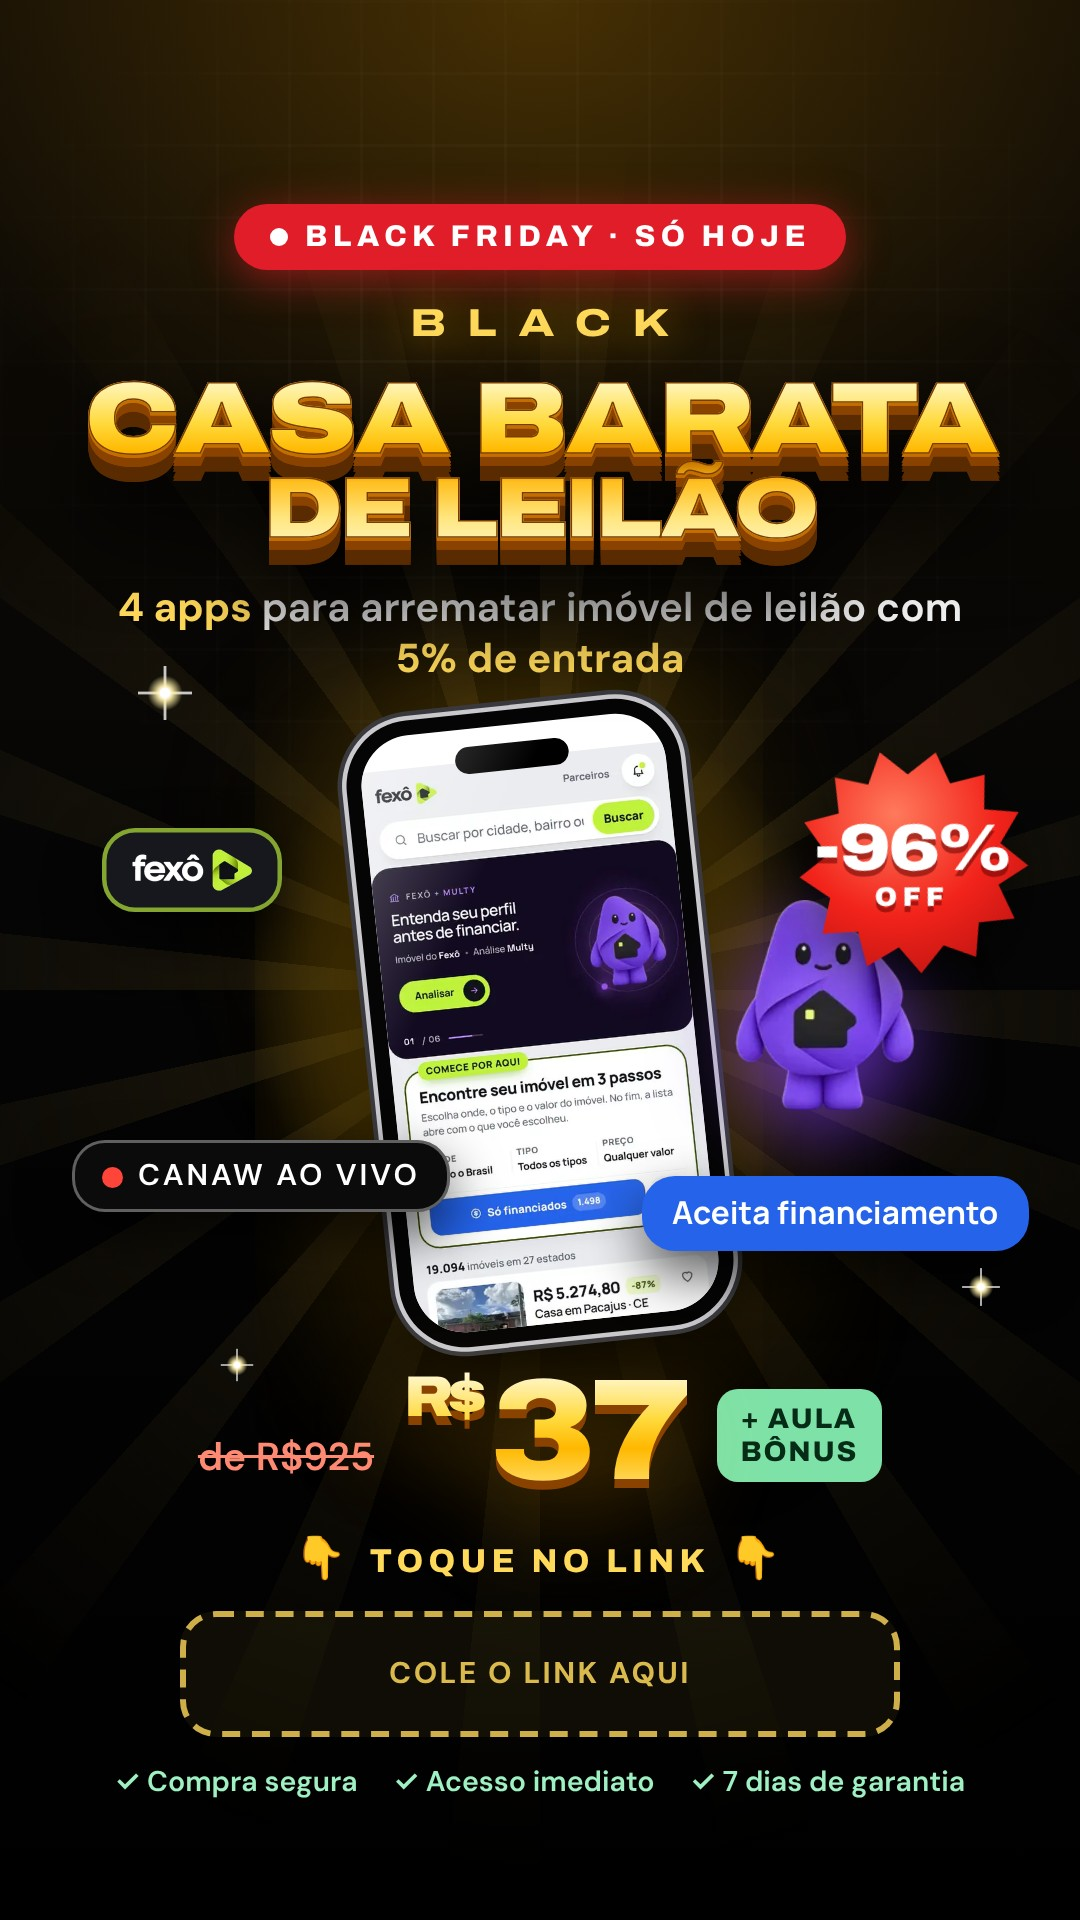
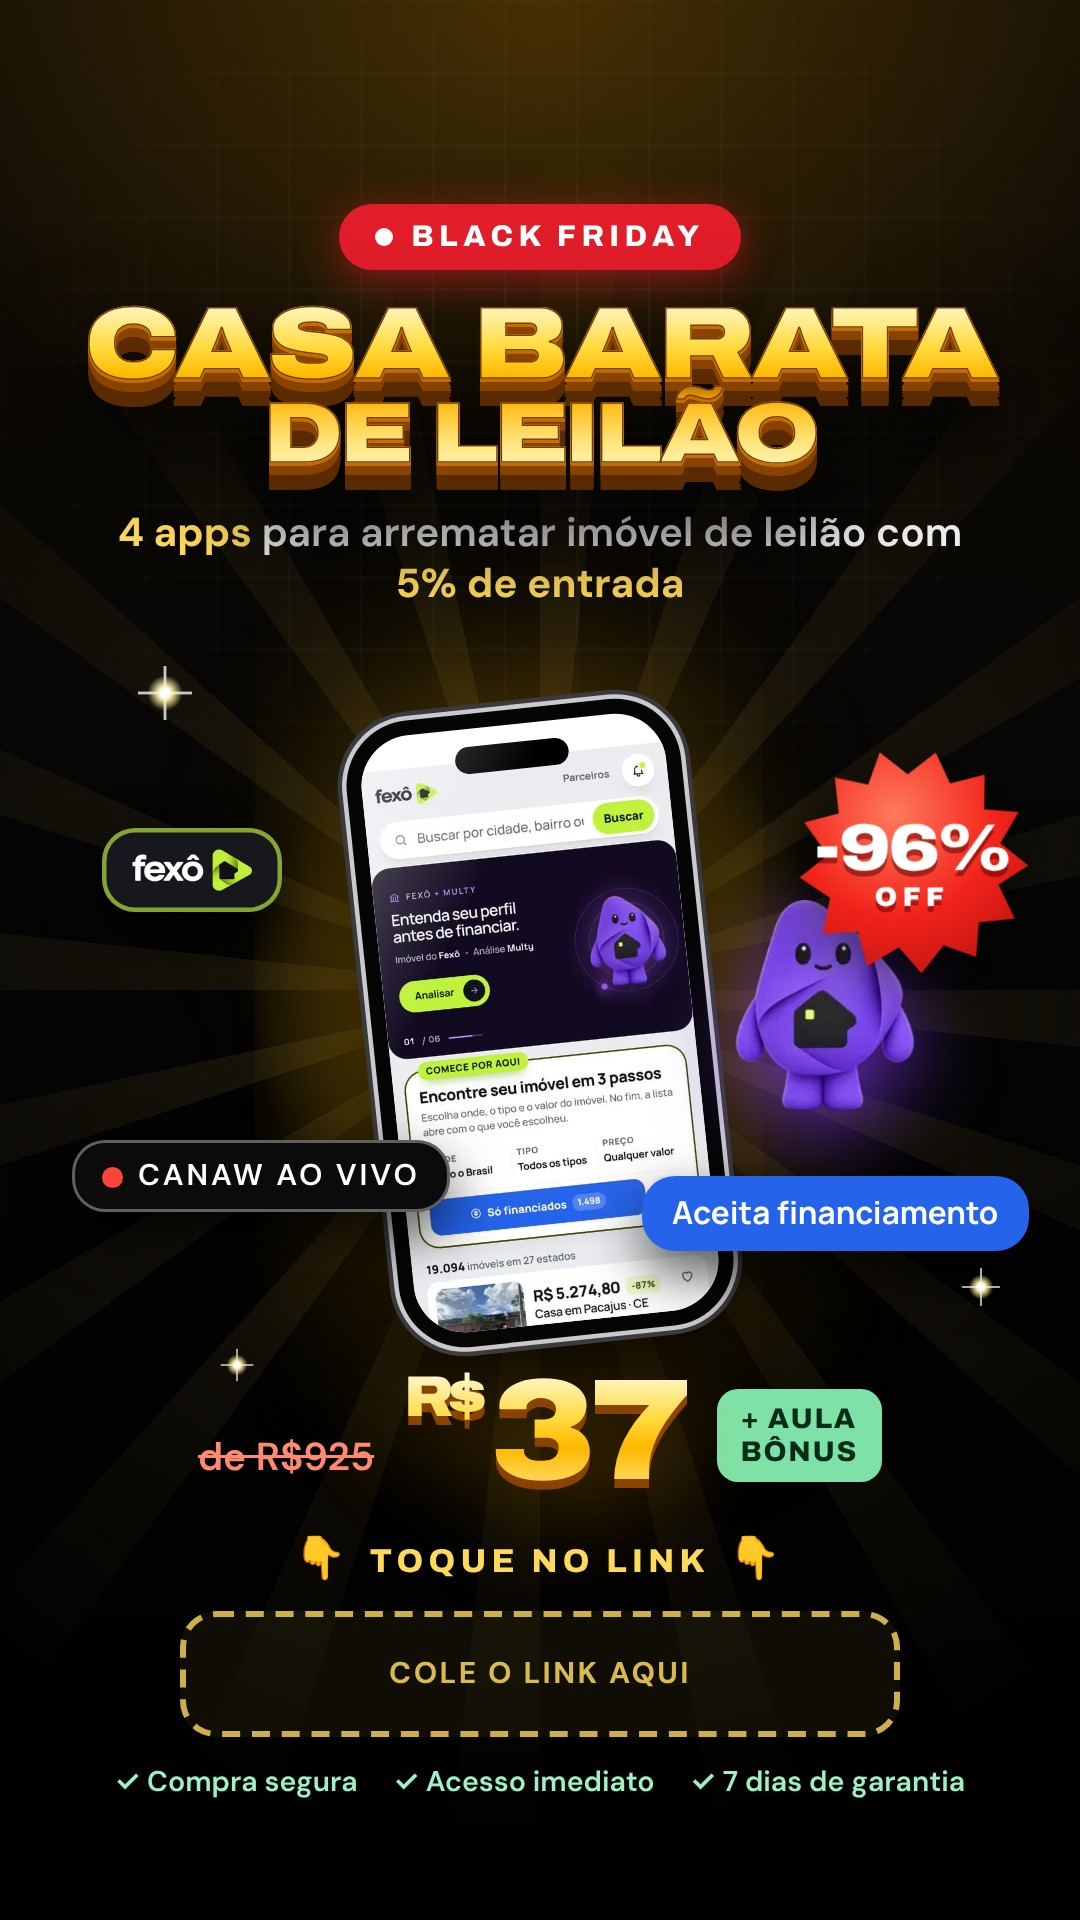
Story: Black Friday tag only, drop 'só hoje' and the BLACK line
Claude-Session: https://claude.ai/code/session_01Y5GQsmzB8L5onmrhmSVSPS

Changed region(s): [[0.0611, 0.0938, 0.9472, 0.375]]

diff --git a/black-casa-barata/banners/story.html b/black-casa-barata/banners/story.html
@@ -54,8 +54,7 @@ html,body{width:360px;height:640px;background:#000;overflow:hidden}
   <div class="raios"></div><div class="grade"></div>
   <i class="estrela" style="left:46px;top:222px"></i><i class="estrela" style="left:318px;top:420px;transform:scale(.7)"></i><i class="estrela" style="left:70px;top:446px;transform:scale(.6)"></i>
   <div class="topo">
-    <span class="tag"><i></i>Black Friday · só hoje</span>
-    <p class="black">BLACK</p>
+    <span class="tag"><i></i>Black Friday</span>
     <h1 class="logo"><span>Casa Barata</span><span>de Leilão</span></h1>
     <p class="sub"><b>4 apps</b> para arrematar imóvel de leilão com <b>5% de entrada</b></p>
   </div>
